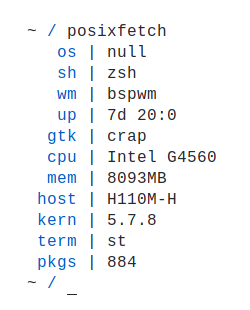
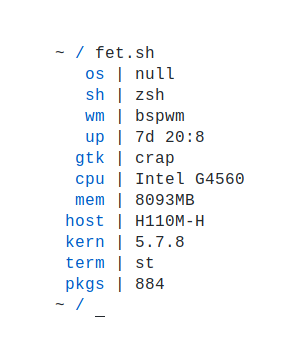
rename from posixfetch to fet.sh

diff --git a/README.md b/README.md
@@ -1,5 +1,8 @@
-fetch written in POSIX shell with no external commands
+<h2 align="center">fet.sh</h1>
+
 
 <div align="center">
+fetch written in POSIX shell with no external commands
+<br>
 <img src="screenshot.png" width="250px">
 </div>
